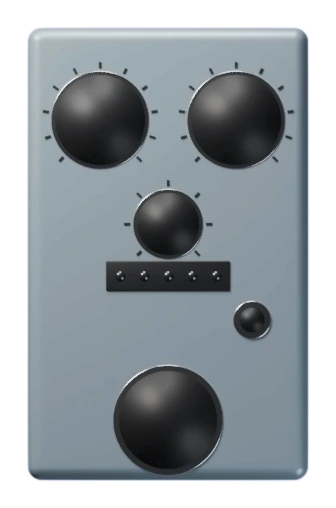
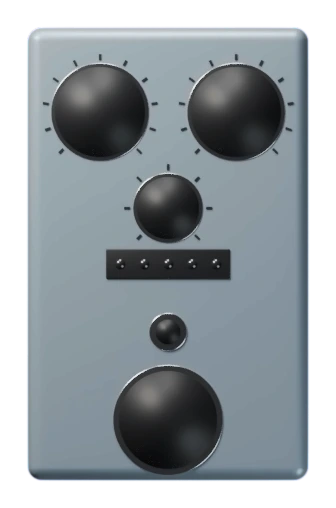
GT03 Comp: more room between the knobs, the meter window, the name and the LED
Claude-Session: https://claude.ai/code/session_01MpJANh4PvD6KNbQFuwN372

diff --git a/tools/blender/pedal.py b/tools/blender/pedal.py
@@ -159,10 +159,10 @@ for kx, ky, ks in T['knobs']:      # a tick scale around every knob, 270 degrees
     tick_arc(kx, ky, ks / 200.0 + 0.06, ks / 200.0 + 0.09, 11 if ks > 30 else 7, -135, 135)
 
 if kind == 'comp':             # a meter window with five dark lenses
-    x, y = pos(70, 124)
+    x, y = pos(70, 118)
     box(x, y, 0.62, 0.15, 0.012, TOP - 0.004, dark, 0.01)
     for i in range(5):
-        px_, py_ = pos(46 + i * 12, 124)
+        px_, py_ = pos(46 + i * 12, 118)
         bpy.ops.mesh.primitive_cylinder_add(vertices=24, radius=0.025, depth=0.014, location=(px_, py_, TOP + 0.003)); o = bpy.context.active_object
         o.data.materials.append(glass); bpy.ops.object.shade_smooth()
 elif kind == 'drive':          # corner screws and a double line under the big knob
